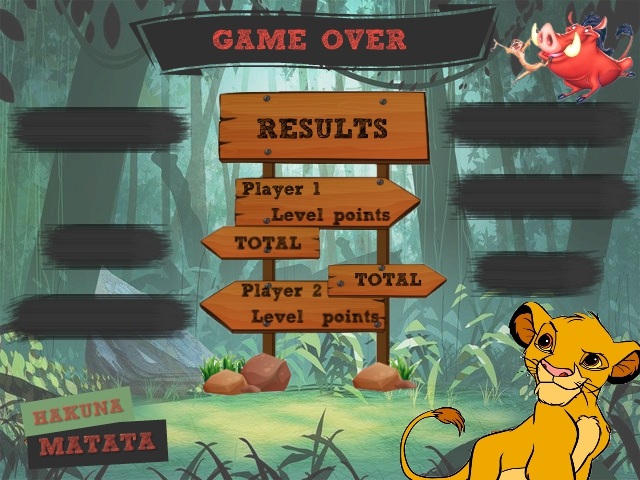
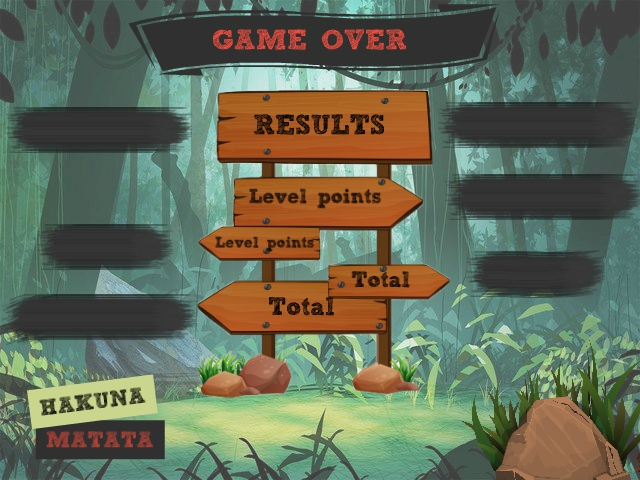
Izmene prikaza rezultata

diff --git a/CubChase.py b/CubChase.py
@@ -597,8 +597,14 @@ class CubChase(QWidget):
     def showGameOver(self):
         bg = pygame.image.load("white.png")
         self.screen.blit(bg, [0, 0])
-        self._backgroundResult = pygame.image.load("GameOverKonacno.jpg")
-        self.screen.blit(self._backgroundResult, [0, 0])
+
+        if self.is_tournament and not self.one_winner:
+            self.continue_img = pygame.image.load("GameOverTurnirContinue.jpg")
+            self.screen.blit(self.continue_img, [0, 0])
+        else:
+            self._backgroundResult = pygame.image.load("GameOverKonacno.jpg")
+            self.screen.blit(self._backgroundResult, [0, 0])
+
         font = pygame.font.Font('Sketch_Block.ttf', 20)
         black = (255, 255, 255)
 
@@ -634,10 +640,6 @@ class CubChase(QWidget):
         elif self.playerOneTotal > self.playerTwoTotal:
             self.screen.blit(self.crown, [468, 72])
 
-        if self.is_tournament and not self.one_winner:
-            self.continue_img = pygame.image.load("startdugme.jpg").convert()
-            self.screen.blit(self.continue_img, [255, 415])
-
         pygame.display.update()
 
         wait = True
@@ -649,7 +651,7 @@ class CubChase(QWidget):
                 if event.type == pygame.MOUSEBUTTONDOWN:
                     mouse_pos = event.pos
                     if self.is_tournament:
-                        if 250 < mouse_pos[0] < 390 and 120 < mouse_pos[1] < 435:
+                        if 488 < mouse_pos[0] < 600 and 425 < mouse_pos[1] < 465:
                             wait1 = False
         if not wait1:
             return
